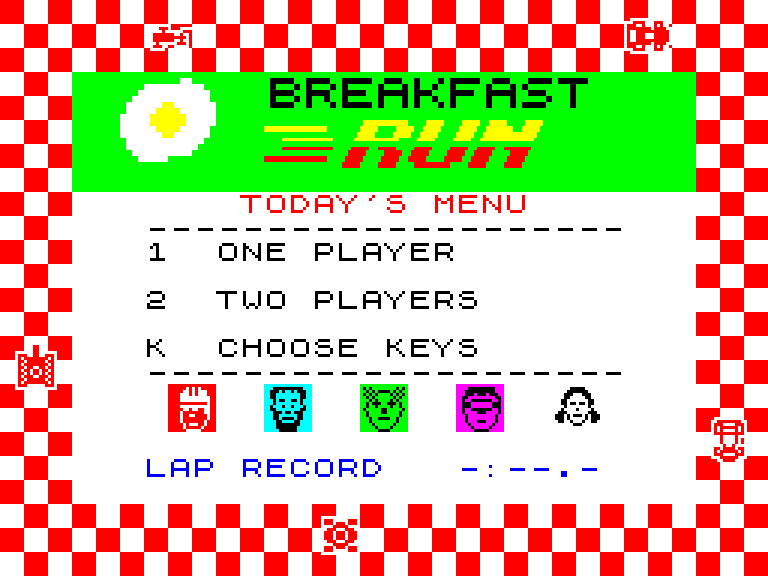
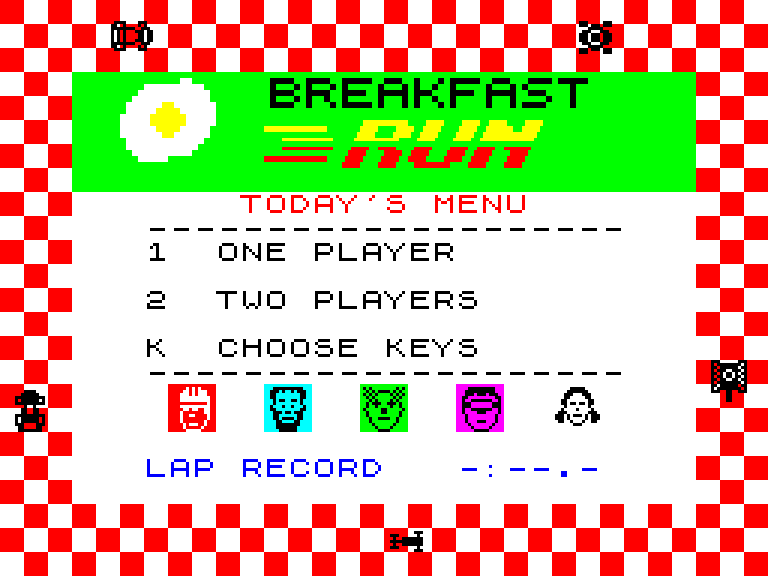
Title cars: black line, the checks showing through; still never wiped first
Claude-Session: https://claude.ai/code/session_01476U86GiAC8cKs57wAJvc3

diff --git a/tests/title_test.py b/tests/title_test.py
@@ -51,11 +51,9 @@ with Racer(headless=True) as sp:
     sb = screen_bits(sp)
     A = np.array([[attr(sp, r, c) for c in range(32)] for r in range(24)])
     rr, cc = np.mgrid[0:24, 0:32]; edge = (rr < 3) | (rr > 20) | (cc < 3) | (cc > 28)
-    CLOTH = np.kron(edge & ((rr + cc) % 2 == 0), np.ones((8, 8), dtype=bool))       # the red checks: cells of solid ink
     RING = np.kron(edge, np.ones((8, 8), dtype=bool))
-    stray = (sb.astype(bool) ^ CLOTH) & RING                                         # (what is not cloth out there: the cars)
-    ok((A[edge] == 0x7A).all() and 150 < stray.sum() < 1100,
-       'the tablecloth: 3 cells deep round the card, every cell red ink on white, its red checks cells of solid ink - so a car can be masked in front of them (%d pixels of car on it)' % stray.sum())
+    ok((A[edge] == np.where((rr + cc) % 2 == 0, 0x50, 0x78)[edge]).all() and 150 < (sb.astype(bool) & RING).sum() < 700,
+       'the tablecloth: red and white checks, a cell each, 3 cells deep round the card - colours only, black ink in every one, so the black cars cannot clash (%d pixels of car on it)' % (sb.astype(bool) & RING).sum())
     ok((sb[24:40, 88:200] == BIG[:16]).all() and all(attr(sp, r, c) == 0x60 for r in range(3, 8) for c in (3, 4, 9, 10, 25, 28)) and attr(sp, 8, 3) == 0x78,
        'BREAKFAST twice its size, black on the card\'s green head (rows 3-7, bright)')
     ok(sb[40:47, 112:192].sum() > 250 and sb[49:56, 112:192].sum() > 250 and not sb[47:49, 112:200].any() and not sb[56:64, 24:232].any()
@@ -72,7 +70,7 @@ with Racer(headless=True) as sp:
        'the five drivers\' faces in a row, each on its car\'s colour')
     ok(screen_text(sp, 19, 6, 10) == 'LAP RECORD' and screen_text(sp, 19, 19, 6) == '-:--.-' and attr(sp, 19, 6) == 0x79,
        'LAP RECORD in blue at the card\'s foot (no record yet: -:--.-)')
-    ok(screen_text(sp, 23, 5, 5) != 'PRESS' and screen_text(sp, 20, 6, 20).strip() == '' and all(attr(sp, 23, c) == 0x7A for c in range(32)), 'no PRESS 1 OR 2 TO START line (Grant, 15 Nov 2026: "you can remove" it)')
+    ok(screen_text(sp, 23, 5, 5) != 'PRESS' and screen_text(sp, 20, 6, 20).strip() == '' and all(attr(sp, 23, c) in (0x50, 0x78) for c in range(32)), 'no PRESS 1 OR 2 TO START line (Grant, 15 Nov 2026: "you can remove" it)')
     # the car's laps of the edge: 45 s, sampled 10 times a second
     card = np.zeros((192, 256), dtype=bool); card[24:168, 24:232] = True
     inner = np.zeros((192, 256), dtype=bool); inner[32:160, 32:224] = True      # (the car's corners cut 8 pixels into the card's)
@@ -84,7 +82,7 @@ with Racer(headless=True) as sp:
         spots.add((x, y))
         sides.add('top' if y < 24 else 'bottom' if y > 168 else 'left' if x < 24 else 'right' if x > 232 else '?')
         leaks += int(((sb != base) & inner).sum())
-        n = int(((sb.astype(bool) ^ CLOTH) & RING).sum()); gone += int(n < 5 * 30); leaks += 1000 * int(n > 5 * 230)   # (a car changes 40-200 pixels of the cloth: all five are out there, and nothing else)
+        n = int((sb.astype(bool) & RING).sum()); gone += int(n < 5 * 45); leaks += 1000 * int(n > 5 * 125)   # (a car is 60-110 pixels of ink: all five are out there, and nothing else)
         A2 = np.array([[attr(sp, r, c) for c in range(32)] for r in range(24)]); clash += int((A2 != A).sum())
     ok(len(spots) > 100 and sides >= {'top', 'bottom', 'left', 'right'}, 'the cars lap the edge: the last of them seen on all four sides (%d different places in 45 s)' % len(spots))
     ok(gone == 0, 'all five cars are in sight all the way round, the right-hand side too (%d of 450 looks with one missing)' % gone)

diff --git a/PROJECT-LOG.md b/PROJECT-LOG.md
@@ -1948,3 +1948,10 @@ Authoritative log for this workstream (house rule 5.2). Newest at the bottom. Ti
 - Grant: "have the press any key a row lower in the finish race view - so an extra yellow line
   below the fast time details". The card is rows 5-18; its foot and PRESS ANY KEY on row 18.
   finish, drive, title tests PASS. docs/design/podium_built.png.
+
+## 2026-11-15 SAST (morning) - the title's cars black again, the checks showing through
+
+- Grant: "okay lets go back to A - black line see through". t_ging is colours only again; the
+  cars' rows are stored as they are (ink only), still never wiped first. (A slip on the way: the
+  card test in a_bg was the wrong way round and the cars left trails down the sides - caught by
+  the screenshot and by title_test's "leave nothing behind".) title test PASS.
